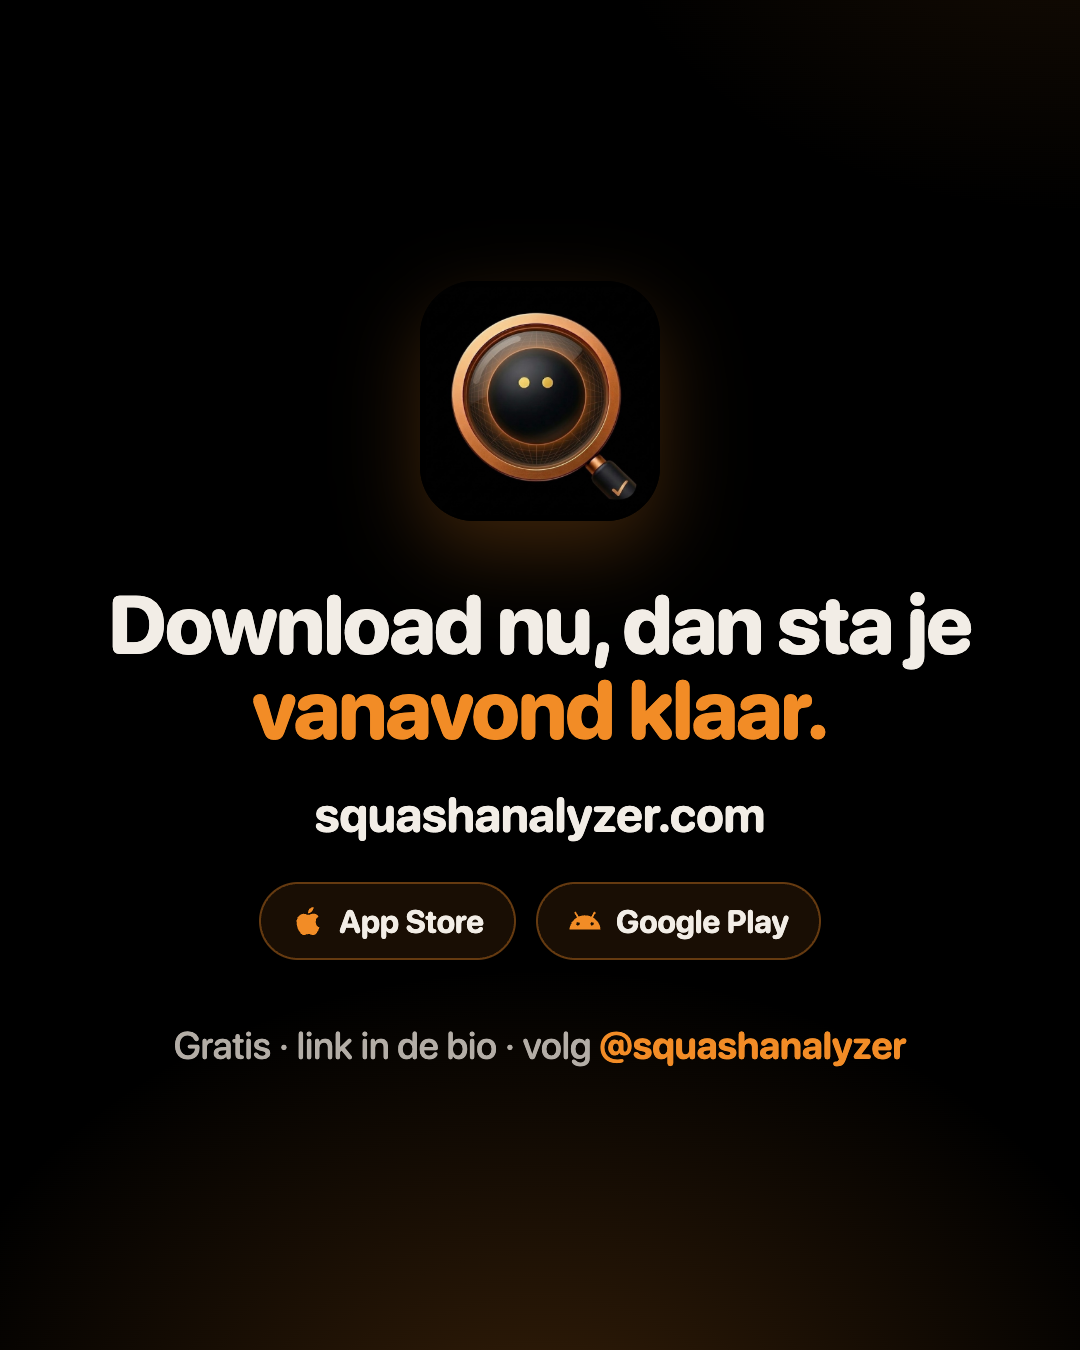
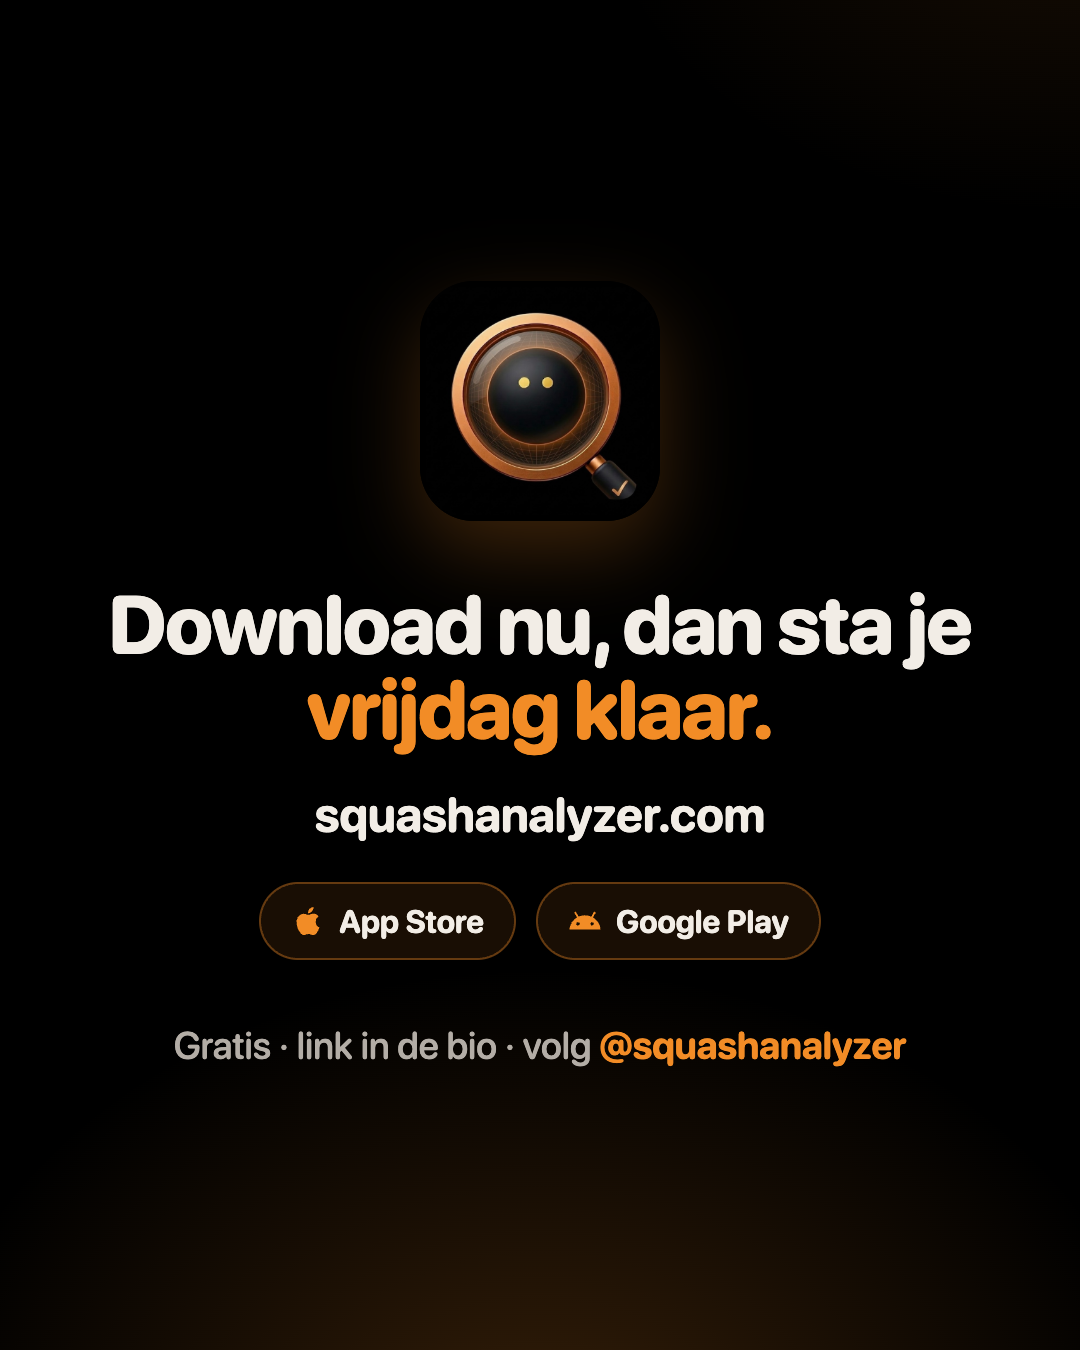
Instagram Competitie-vrijdag: slide 3 'dan sta je vrijdag klaar'

Changed region(s): [[0.2139, 0.4978, 0.7639, 0.56]]

diff --git a/instagram/carousel-kit/carousel.html b/instagram/carousel-kit/carousel.html
@@ -77,7 +77,7 @@ var CAROUSELS = {
   competitie: [
     { type: 'phone', img: 'bob-wim-2-2.png', box: [1, 19.5, 98, 29.5], h: 'Vrijdag = <em>competitie.</em>', s: 'Wie telt er vanavond?' },
     { type: 'steps', h: 'Klaar in <em>3 stappen.</em>', steps: ['Download Squash Analyzer. Gratis, iPhone en Android.', 'Kies Scheidsrechter en vul de spelers in.', 'Tik wie het punt wint. Serve, vak en stand doet de app.'] },
-    { type: 'cta', h: 'Download nu, dan sta je <em>vanavond klaar.</em>' }
+    { type: 'cta', h: 'Download nu, dan sta je <em>vrijdag klaar.</em>' }
   ]
 };
 var APPLE = '<svg viewBox="0 0 24 24"><path d="M18.71 19.5c-.83 1.24-1.71 2.45-3.05 2.47-1.34.03-1.77-.79-3.29-.79-1.53 0-2 .77-3.27.82-1.31.05-2.3-1.32-3.14-2.53C4.25 17 2.94 12.45 4.7 9.39c.87-1.52 2.43-2.48 4.12-2.51 1.28-.02 2.5.87 3.29.87.78 0 2.26-1.07 3.8-.91.65.03 2.47.26 3.64 1.98-.09.06-2.17 1.28-2.15 3.81.03 3.02 2.65 4.03 2.68 4.04-.03.07-.42 1.44-1.38 2.83M13 3.5c.73-.83 1.94-1.46 2.94-1.5.13 1.17-.34 2.35-1.04 3.19-.69.85-1.83 1.51-2.95 1.42-.15-1.15.41-2.35 1.05-3.11z"/></svg>';
